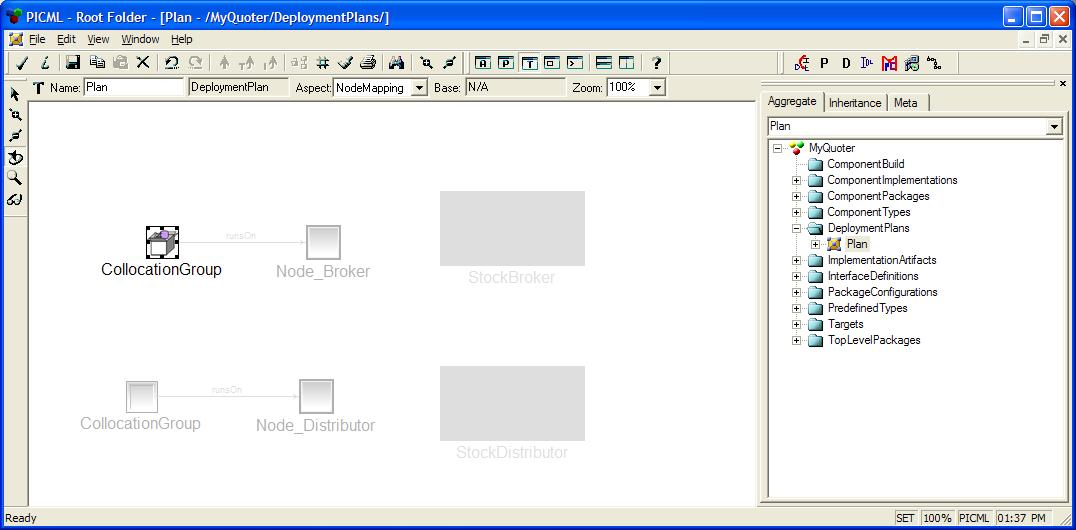
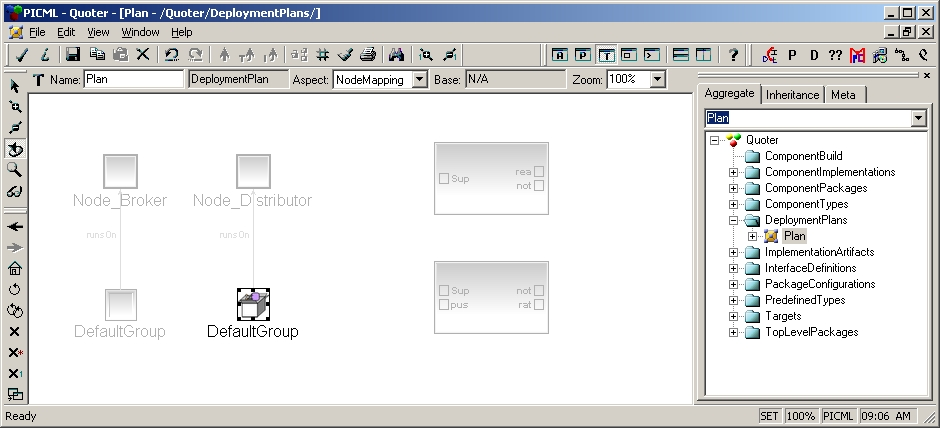
Thu Jun 18 10:24:43 UTC 2009  Marcel Smit  <msmit@remedy.nl>
* docs/tutorials/Quoter/Simple/03.html:
        * docs/tutorials/Quoter/Simple/descriptors/Plan.cdp:
        * docs/tutorials/Quoter/Simple/images/fig10.jpg:
        * docs/tutorials/Quoter/Simple/images/fig11.jpg:
        * docs/tutorials/Quoter/Simple/images/fig12.jpg:
          Updated to meet the latest versions 
          of GME/COSMIC/CIAO/DANCE

        * docs/tutorials/Quoter/Simple/Broker/StockBroker.mpc:
          Stock_Base_StockBroker_idle_gen project should be build 
          after Stock_Base_StockBroker_idl_gen project.

        * docs/tutorials/Quoter/Simple/Distributor/StockDistributor.mpc:
          Stock_Base_StockDistributor_idle_gen project should be build 
          after Stock_Base_StockDistributor_idl_gen project.

        * docs/tutorials/Quoter/Simple/Broker/StockBroker_exec.h:
        * docs/tutorials/Quoter/Simple/Broker/StockBroker_exec.cpp:
        * docs/tutorials/Quoter/Simple/Distributor/StockDistributor_exec.h:
        * docs/tutorials/Quoter/Simple/Distributor/StockDistributor_exec.cpp:
          Naming convention of namespace is different now since CIDL 
          compiler is removed.

git-svn-id: svn://svn.dre.vanderbilt.edu/DOC/Middleware/branches/dds_ports@85690 ae88bc3d-4319-0410-8dbf-d08b4c9d3795

diff --git a/modules/CIAO/docs/tutorials/Quoter/Simple/03.html b/modules/CIAO/docs/tutorials/Quoter/Simple/03.html
@@ -229,7 +229,7 @@ COLOR:black'>MonolithicImplementation</span></code><span style='COLOR:black'>.
     <li style='COLOR:black;'> Create an &lt;&lt;PublishConnector&gt;&gt; by dragging it from the "Part browser" onto the "StockQuoter" window.
     </li>
     <li style='COLOR:black;'> Now assemble the components together according to <a href="images/fig1.jpg">Figure
-      1</a> (make sure you change to connect mode <img border="0" width="32" height="32" id="_x0000_i1035" src="Icons/AddConnMode.gif" />)
+      1</a> (make sure you change to connect mode <img border="0" width="16" height="16" id="_x0000_i1035" src="Icons/AddConnMode.gif" />)
       and the resulting assembly model should look like Figure 7. Note that to create connections between StockDistributor.notify_out and StockBroker.notify_in,
       you will need the intermediate connector &lt;&lt;PublishConnector&gt;&gt;.
     </li>
@@ -375,38 +375,34 @@ COLOR:black'>MonolithicImplementation</span></code><span style='COLOR:black'>.
       </ul>
     <p>The model should look like this:</p>
   </ol>
-  <p align="center" style='MARGIN-BOTTOM:12pt;MARGIN-LEFT:0.5in;TEXT-ALIGN:center;'><span style='COLOR:black'><img border="0" width="1076" height="530" id="_x0000_i1044" src="images/fig10.jpg"><br>
+  <p align="center" style='MARGIN-BOTTOM:12pt;MARGIN-LEFT:0.5in;TEXT-ALIGN:center;'><span style='COLOR:black'><img border="0" id="_x0000_i1044" src="images/fig10.jpg"><br>
     <br>
     Figure 10.</span></p>
   <ol start="4" type="1">
     <li style='MARGIN-BOTTOM:12pt;COLOR:black;'> Now we need to associate &lt;&lt;ComponentRef&gt;&gt; StockBroker to the
-      &lt;&lt;CollocationGroup&gt;&gt; running on the &lt;&lt;NodeReference&gt;&gt;
-      Broker, and &lt;&lt;ComponentRef&gt;&gt; StockDistributor to the
-      &lt;&lt;CollocationGroup&gt;&gt; running on the &lt;&lt;NodeReference&gt;&gt;
-      Distributor. To do that, switch the Edit Mode Bar to Set Mode (<img border="0" width="32" height="32" id="_x0000_i1045" src="Icons/SetMode.gif">),
-      and move the cursor to the &lt;&lt;CollocationGroup&gt;&gt; running on
-      &lt;&lt;NodeReference&gt;&gt; Distributor, right-click on it. You will find the
-      cursor is changed to set mode cursor, and only the
-      &lt;&lt;CollocationGroup&gt;&gt; you clicked in is highlighted, as shown in
-      Figure 11.</li>
+      &lt;&lt;CollocationGroup&gt;&gt; running on the &lt;&lt;NodeReference&gt;&gt; Node_Broker, and &lt;&lt;ComponentRef&gt;&gt; StockDistributor to the
+      &lt;&lt;CollocationGroup&gt;&gt; running on the &lt;&lt;NodeReference&gt;&gt; Node_Distributor. To do that, switch the Edit Mode Bar to Set Mode
+      (<img border="0" width="16" height="16" id="_x0000_i1045" src="Icons/SetMode.gif">), and move the cursor to the &lt;&lt;CollocationGroup&gt;&gt; running on
+      &lt;&lt;NodeReference&gt;&gt; Node_Distributor, right-click on it. You will find the cursor is changed to set mode cursor, and only the &lt;&lt;CollocationGroup&gt;&gt;
+      you clicked in is highlighted, as shown in Figure 11.
+    </li>
   </ol>
-  <p align="center" style='MARGIN-BOTTOM:12pt;TEXT-ALIGN:center'><span style='COLOR:black'><img border="0" width="1076" height="530" id="_x0000_i1046" src="images/fig11.jpg">
+  <p align="center" style='MARGIN-BOTTOM:12pt;TEXT-ALIGN:center'><span style='COLOR:black'><img border="0" id="_x0000_i1046" src="images/fig11.jpg">
     <!-- 01.html,v 1.3 2006/02/10 14:34:35 mxiong Exp -->
-    &gt;<br>
+    <br><br>
+    Figure 11</span>
+  </p>
+  <p><span style='COLOR:black'>Now move your cursor to &lt;&lt;ComponentRef&gt;&gt;&nbsp; StockDistributor, and left-click it, so that
+    it looks like Figure 12.</span>
+  </p>
+  <p align="center" style='MARGIN-BOTTOM:12pt;TEXT-ALIGN:center'><span style='COLOR:black'><img border="0" id="_x0000_i1047" src="images/fig12.jpg"> &nbsp;<br>
     <br>
-    Figure 11</span></p>
-  <p><span style='COLOR:black'>Now move your cursor to
-    &lt;&lt;ComponentRef&gt;&gt;&nbsp; StockDistributor, and left-click it, so that
-    it looks like Figure 12.</span></p>
-  <p align="center" style='MARGIN-BOTTOM:12pt;TEXT-ALIGN:center'><span style='COLOR:black'><img border="0" width="1076" height="530" id="_x0000_i1047" src="images/fig12.jpg"> &nbsp;<br>
-    <br>
-    Figure 12</span></p>
-  <p style='MARGIN-BOTTOM:12pt'><span style='COLOR:black'>This operation
-    associates <em>StockDistributor</em> component to the
-    &lt;&lt;CollocationGroup&gt;&gt; running on <em>Distributor</em> node. To do
-    the same with Broker, just right-click on another
-    &lt;&lt;CollocationGroup&gt;&gt;, and left-click on StockBroker
-    &lt;&lt;CollocationGroup&gt;&gt; which is highlighted.</span></p>
+    Figure 12</span>
+  </p>
+  <p style='MARGIN-BOTTOM:12pt'><span style='COLOR:black'>This operation associates <em>StockDistributor</em> component to the
+    &lt;&lt;CollocationGroup&gt;&gt; running on <em>Distributor</em> node. To do the same with Broker, just right-click on the associate
+    &lt;&lt;CollocationGroup&gt;&gt;, and left-click on StockBroker &lt;&lt;CollocationGroup&gt;&gt; which is then highlighted.</span>
+  </p>
   <div align="center" style='TEXT-ALIGN:center'><span style='COLOR:black'>
     <hr size="2" width="100%" align="center">
     </span></div>

diff --git a/modules/CIAO/docs/tutorials/Quoter/Simple/Broker/StockBroker_exec.cpp b/modules/CIAO/docs/tutorials/Quoter/Simple/Broker/StockBroker_exec.cpp
@@ -22,7 +22,7 @@
 #include "ciao/CIAO_common.h"
 
 
-namespace CIDL_StockBroker_Impl
+namespace CIAO_Stock_StockBroker_Impl
 {
   //==================================================================
   // Component Executor Implementation Class:   StockBroker_exec_i

diff --git a/modules/CIAO/docs/tutorials/Quoter/Simple/Broker/StockBroker_exec.h b/modules/CIAO/docs/tutorials/Quoter/Simple/Broker/StockBroker_exec.h
@@ -35,7 +35,9 @@
 #include "StockBroker_exec_export.h"
 #include "tao/LocalObject.h"
 
-namespace CIDL_StockBroker_Impl
+//namespace CIAO_Stock_StockDistributor_Impl
+//namespace CIDL_StockDistributor_Impl
+namespace CIAO_Stock_StockBroker_Impl
 {
 
   /**

diff --git a/modules/CIAO/docs/tutorials/Quoter/Simple/Distributor/StockDistributor_exec.h b/modules/CIAO/docs/tutorials/Quoter/Simple/Distributor/StockDistributor_exec.h
@@ -34,7 +34,8 @@
 #include "StockDistributor_exec_export.h"
 #include "tao/LocalObject.h"
 
-namespace CIDL_StockDistributor_Impl
+namespace CIAO_Stock_StockDistributor_Impl
+//namespace CIDL_StockDistributor_Impl
 {
   class StockDistributor_exec_i;
 

diff --git a/modules/CIAO/docs/tutorials/Quoter/Simple/Distributor/StockDistributor_exec.cpp b/modules/CIAO/docs/tutorials/Quoter/Simple/Distributor/StockDistributor_exec.cpp
@@ -23,7 +23,7 @@
 #include "ace/Reactor.h"
 
 
-namespace CIDL_StockDistributor_Impl
+namespace CIAO_Stock_StockDistributor_Impl
 {
 
   // initialze the stock values
